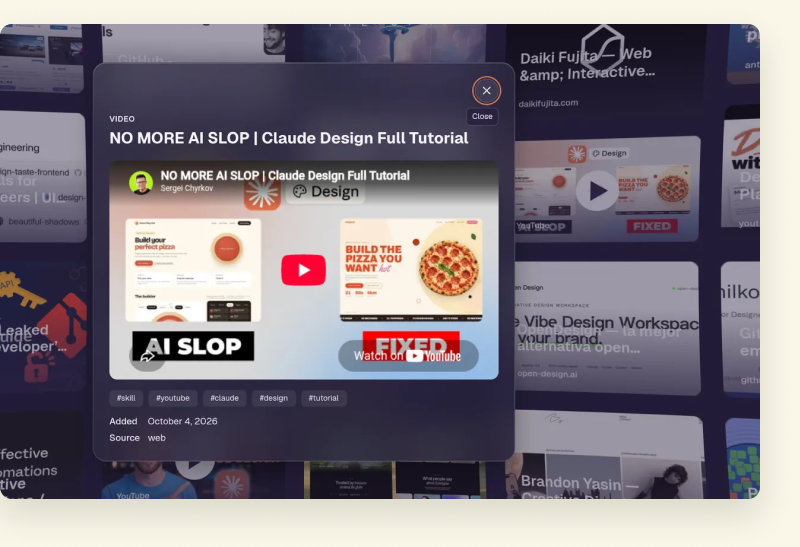
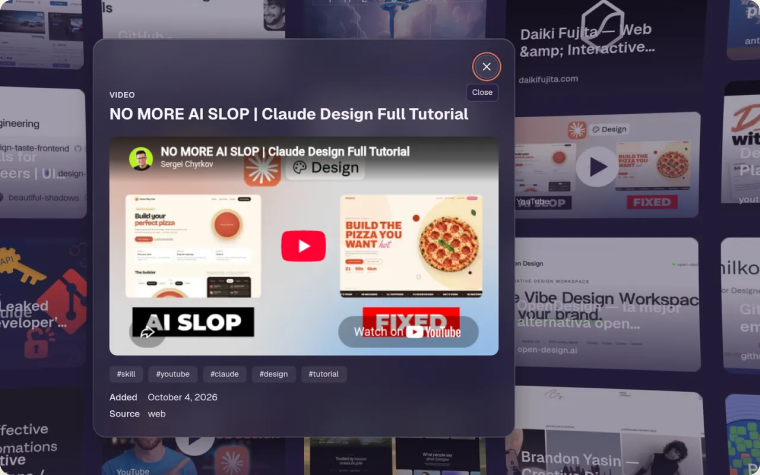
fix: address work and case study review

diff --git a/src/content.config.ts b/src/content.config.ts
@@ -16,7 +16,7 @@ const projects = defineCollection({
       updatedDate: z.coerce.date().optional(),
       draft: z.boolean().default(false),
       featured: z.boolean().default(false),
-      homeFeatured: z.boolean().default(true),
+      homeFeatured: z.boolean().default(true), // Garden appears in Home Values, not Home Work
       coverImage: image().optional(), // validated at build; missing file = Zod error
       coverImageAlt: z.string().optional(),
       tags: z.array(z.string()).default([]), // what KIND of thing it is
@@ -35,24 +35,57 @@ const projects = defineCollection({
       outcome: z.string().optional(), // one-line quantified result for cards
       repoUrl: z.url().optional(),
       demoUrl: z.url().optional(),
-      demoLabel: z.string().optional(),
-      heroDescription: z.string().optional(),
-      caseStudy: z.object({
-        headlines: z.object({ problem: z.string(), features: z.string(), decisions: z.string(), mistakes: z.string(), growth: z.string() }),
-        glance: z.array(z.object({ label: z.string(), value: z.string() })),
-        problem: z.array(z.string()), requirements: z.string(), constraint: z.string(),
-        features: z.array(z.object({ title: z.string(), description: z.string(), detail: z.string(), image: image().optional(), imageAlt: z.string().optional(), terminal: z.string().optional(), note: z.string().optional() })),
-        decisions: z.array(z.object({ choice: z.string(), subtitle: z.string(), why: z.string(), cost: z.string() })),
-        closing: z.array(z.object({ title: z.string(), text: z.string() })).optional(),
-        proof: z.object({ title: z.string(), text: z.string() }).optional(),
-        milestones: z.array(z.object({ day: z.string(), title: z.string(), description: z.string() })),
-      }).optional(),
+      demoLabel: z.string().optional(), // project-specific primary action
+      heroDescription: z.string().optional(), // longer case-study hero copy
+      caseStudy: z
+        .object({
+          headlines: z.object({
+            problem: z.string(),
+            features: z.string(),
+            decisions: z.string(),
+            mistakes: z.string(),
+            growth: z.string(),
+          }),
+          glance: z.array(z.object({
+            label: z.string(),
+            value: z.string(),
+          })),
+          problem: z.array(z.string()),
+          requirements: z.string(),
+          constraint: z.string(),
+          features: z.array(z.object({
+            title: z.string(),
+            description: z.string(),
+            detail: z.string(), // technical explanation shown under the feature
+            image: image().optional(),
+            imageAlt: z.string().optional(),
+            imagePresentation: z.enum(['screenshot', 'phone']).optional(), // phone image is centred at its natural aspect ratio
+            terminal: z.string().optional(), // alternative to an image for agent activity
+            note: z.string().optional(), // source or owner note below the terminal
+          })),
+          closing: z.array(z.object({
+            title: z.string(),
+            text: z.string(),
+          })).optional(),
+          proof: z.object({
+            title: z.string(),
+            text: z.string(),
+          }).optional(),
+          milestones: z.array(z.object({
+            day: z.string(),
+            title: z.string(),
+            description: z.string(),
+          })),
+        })
+        .optional(),
       decisions: z
         .array(
           z.object({
             choice: z.string(), // what was done
             rejected: z.string(), // what was discarded — REQUIRED, this is the forcing function (D2)
             because: z.string(), // the deciding constraint, one line
+            subtitle: z.string().optional(), // technical summary under the choice
+            cost: z.string().optional(), // tradeoff shown in the case-study table
           })
         )
         .default([]),
